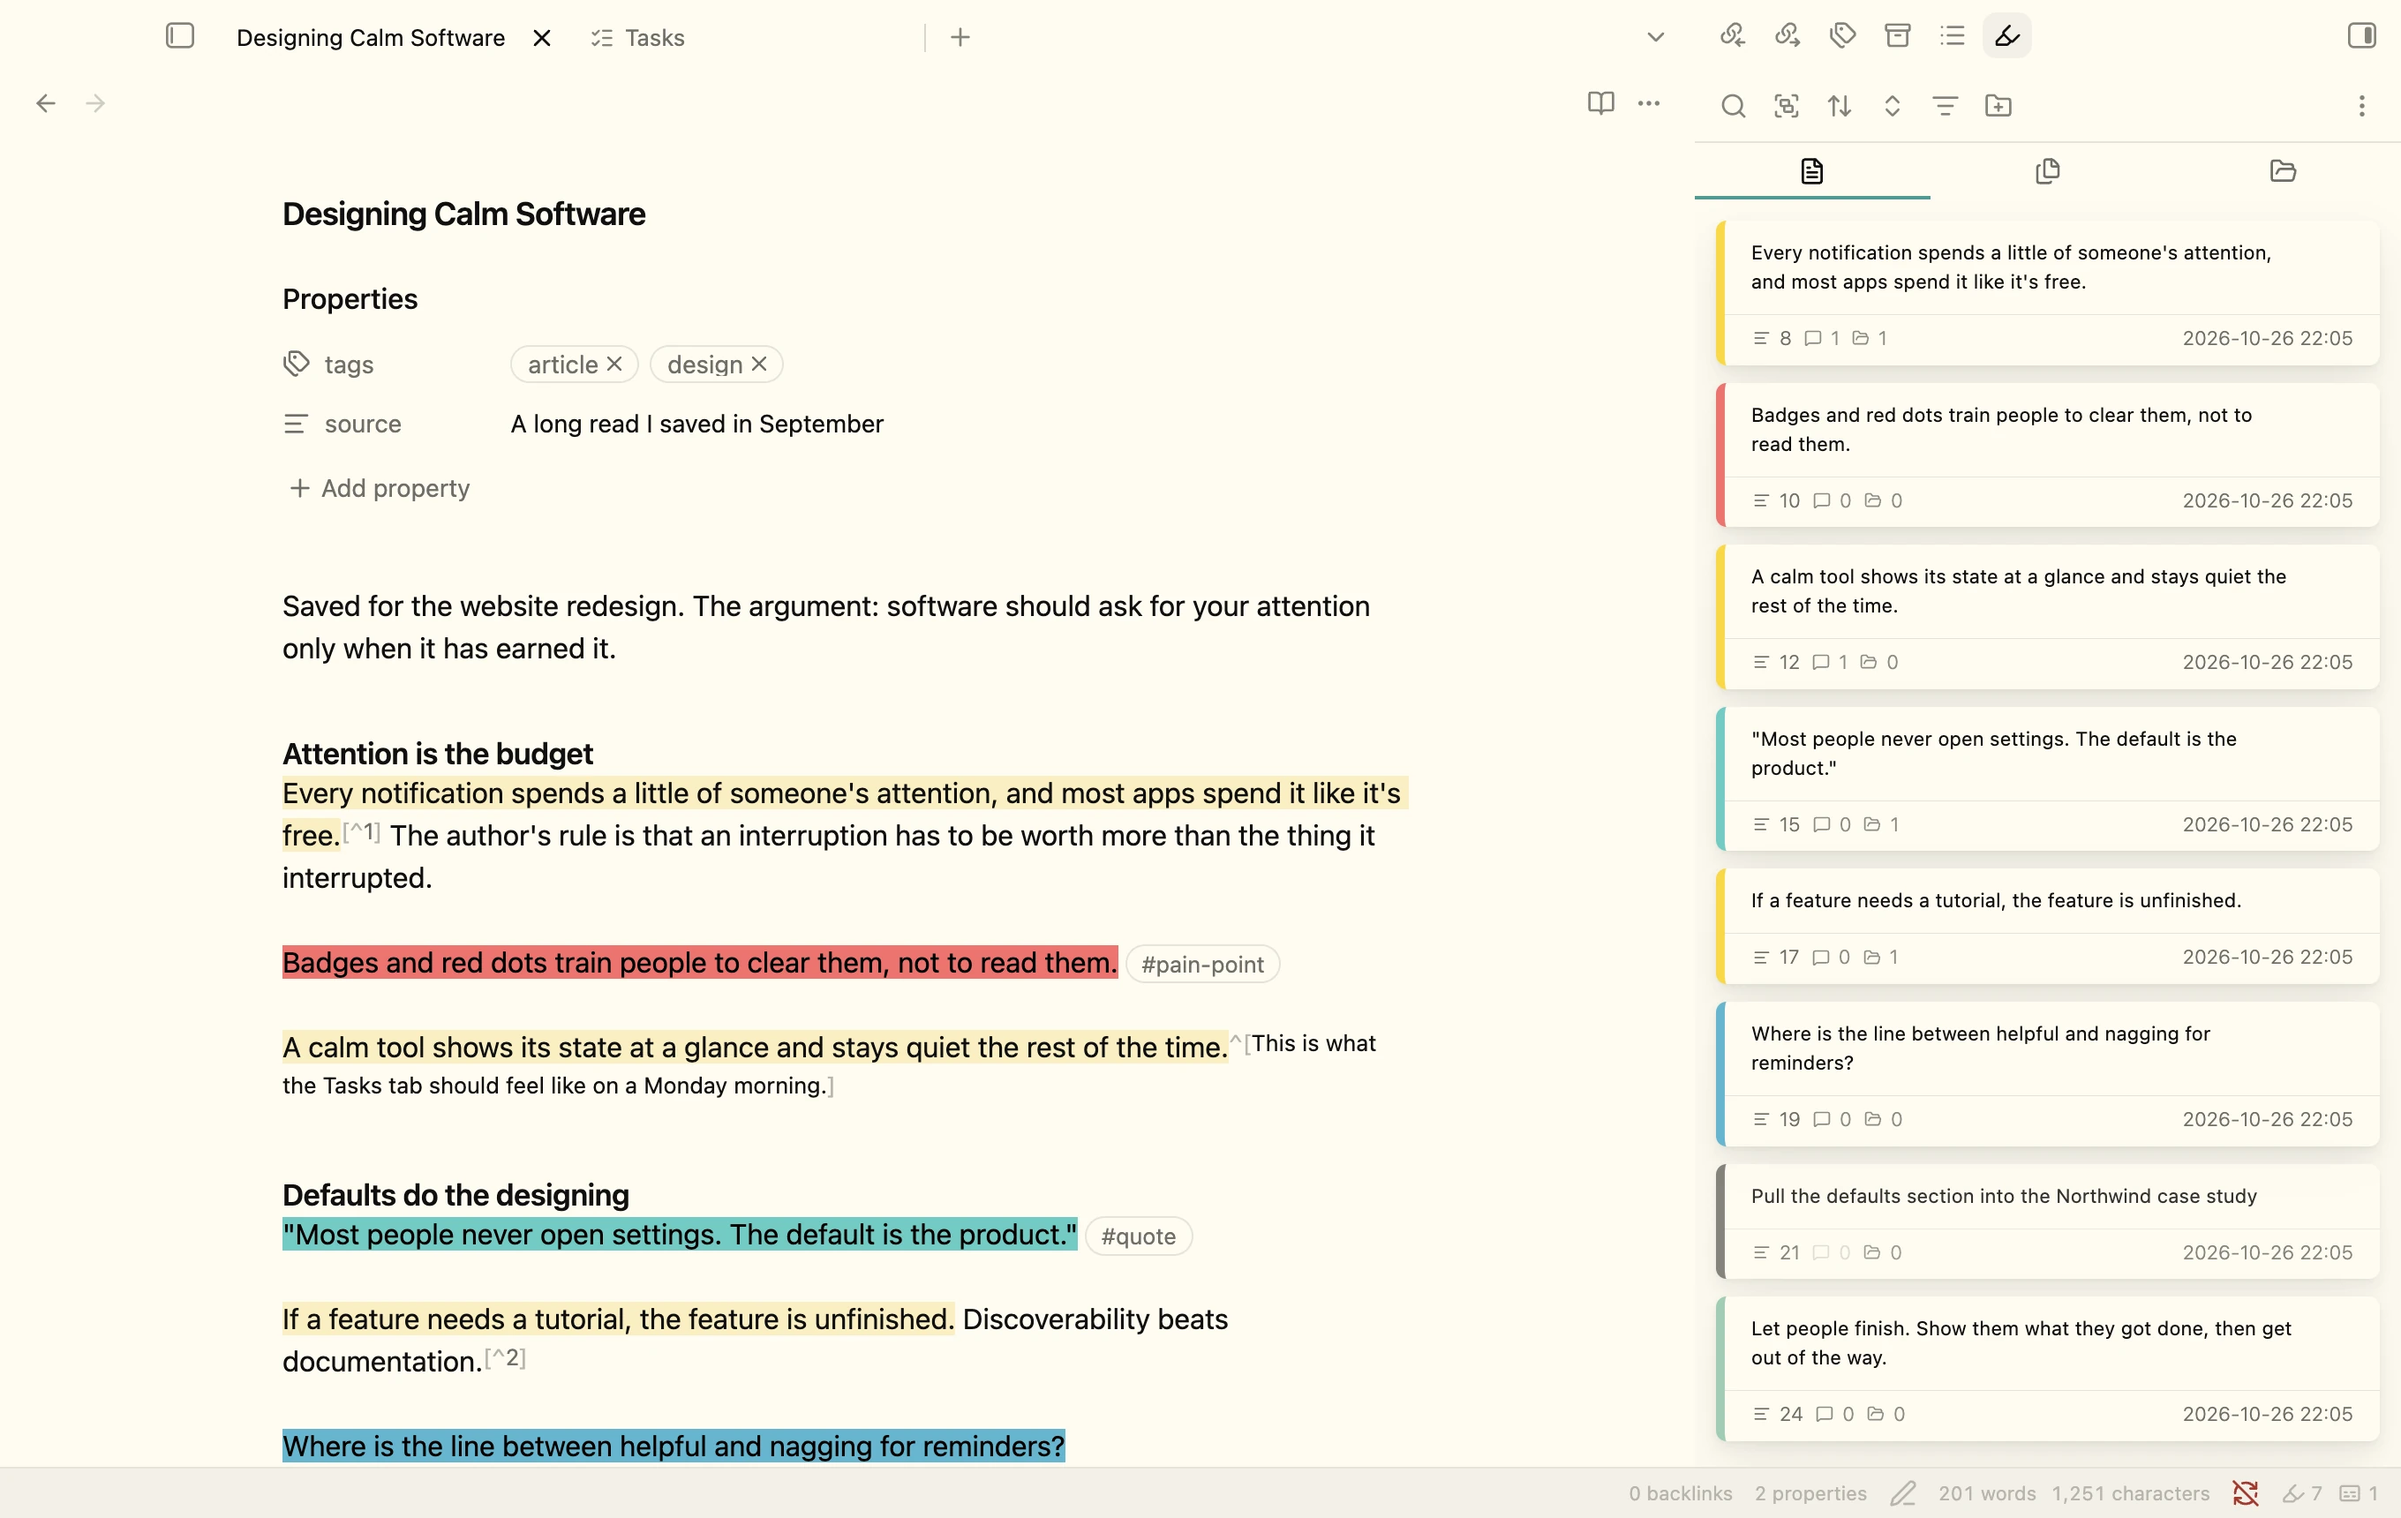
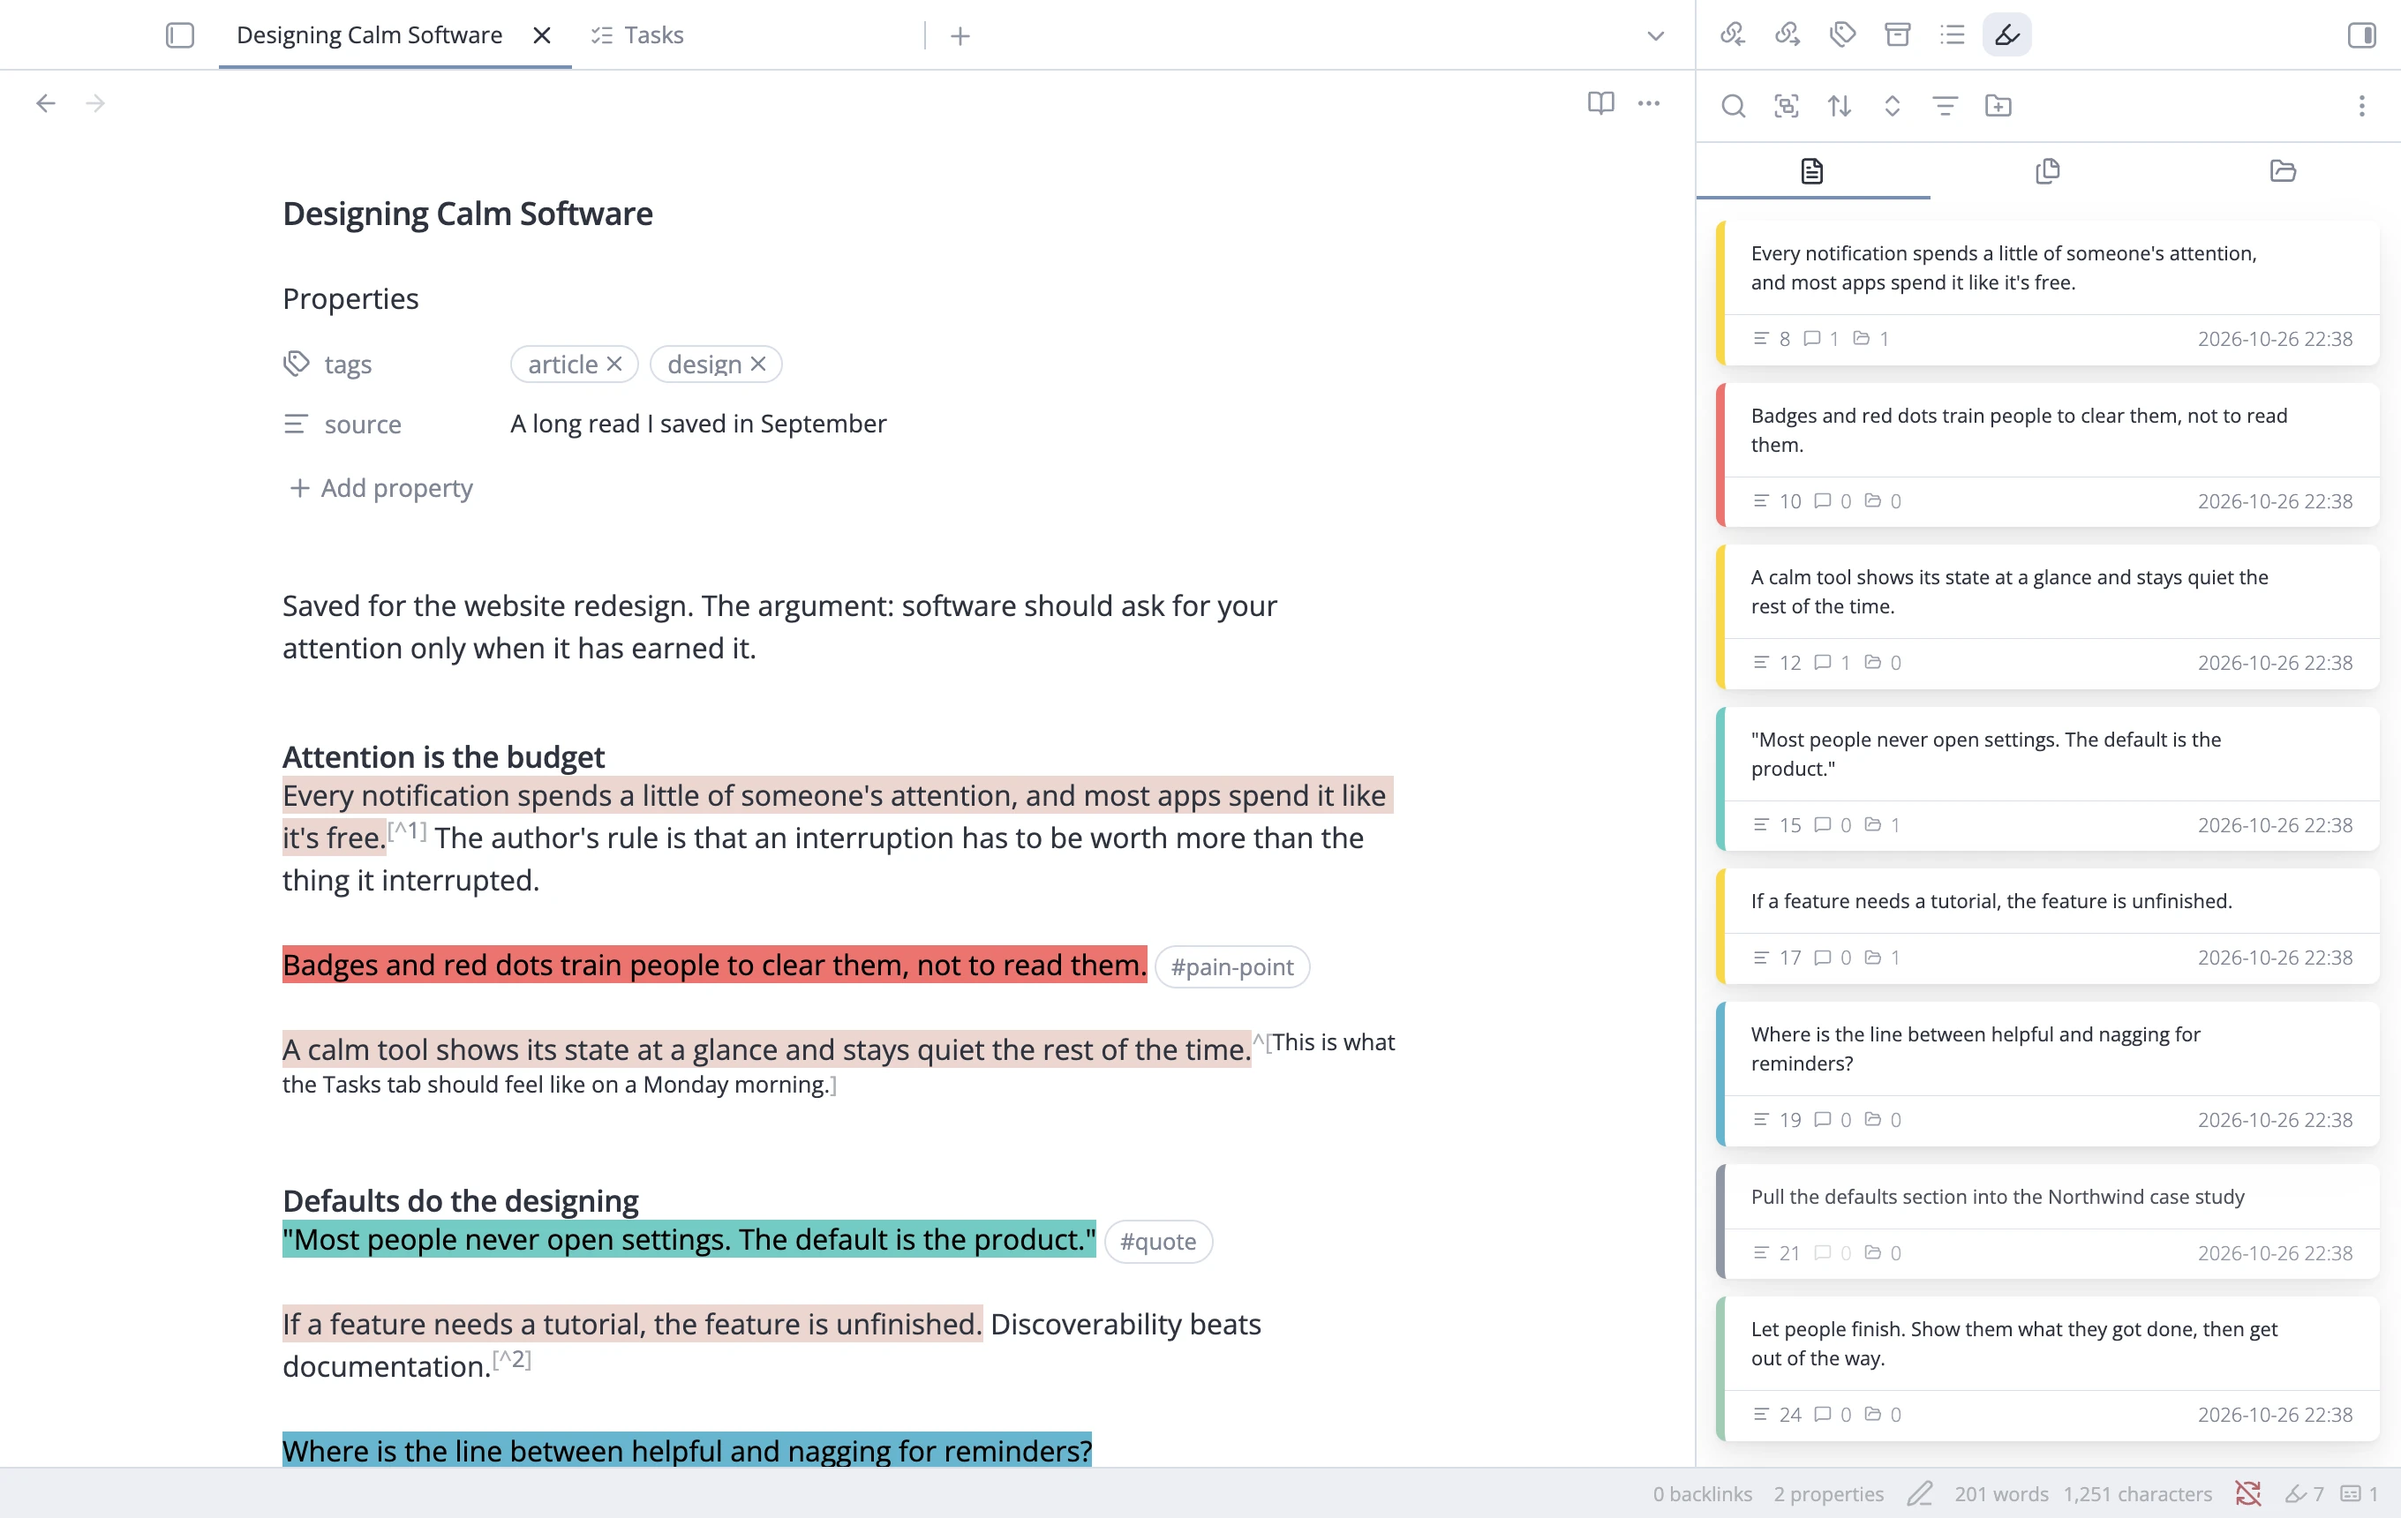
Retake the README screenshots in Nord, with workspace borders

diff --git a/README.md b/README.md
@@ -219,7 +219,7 @@ Everything lives under **Settings → Sidebar Highlights and Tasks**.
 - PDF highlights aren't supported
 - Highlights inside code blocks are ignored on purpose, so `==` in a DataviewJS block won't appear
 - Available in English and Chinese (Simplified). The Tasks tab is in English for now
-- Screenshots use the [Minimal](https://github.com/kepano/obsidian-minimal) theme with the Flexoki color scheme
+- Screenshots use the [Minimal](https://github.com/kepano/obsidian-minimal) theme with the Nord color scheme
 
 Bugs and feature requests are welcome on [GitHub Issues](https://github.com/trevware/obsidian-sidebar-highlights/issues).
 
